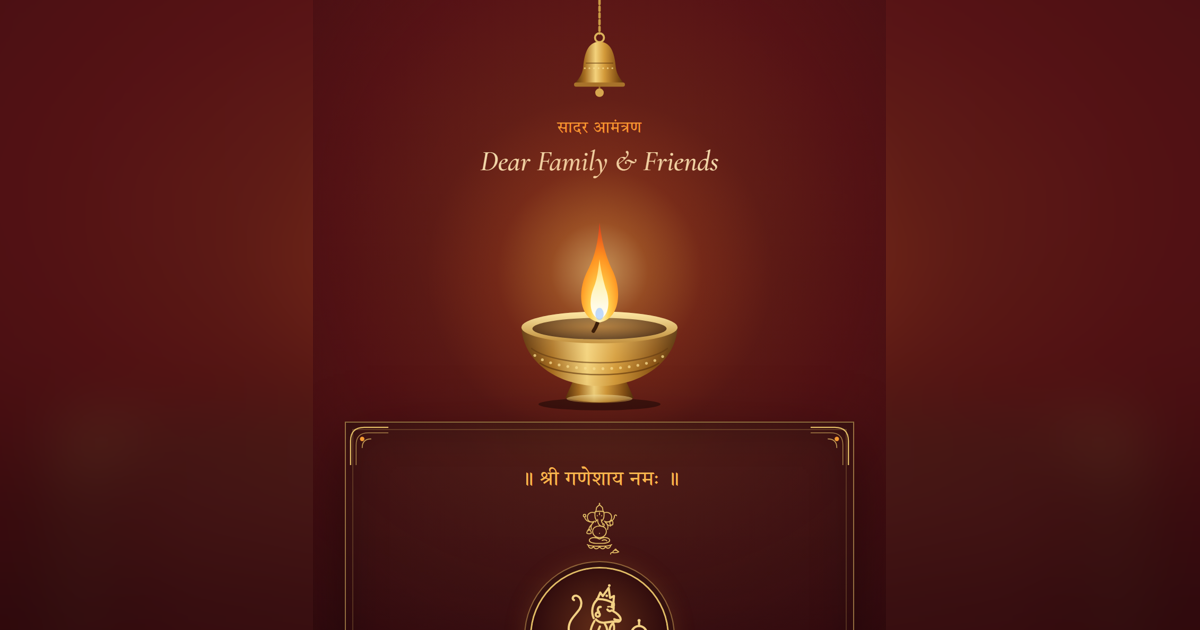
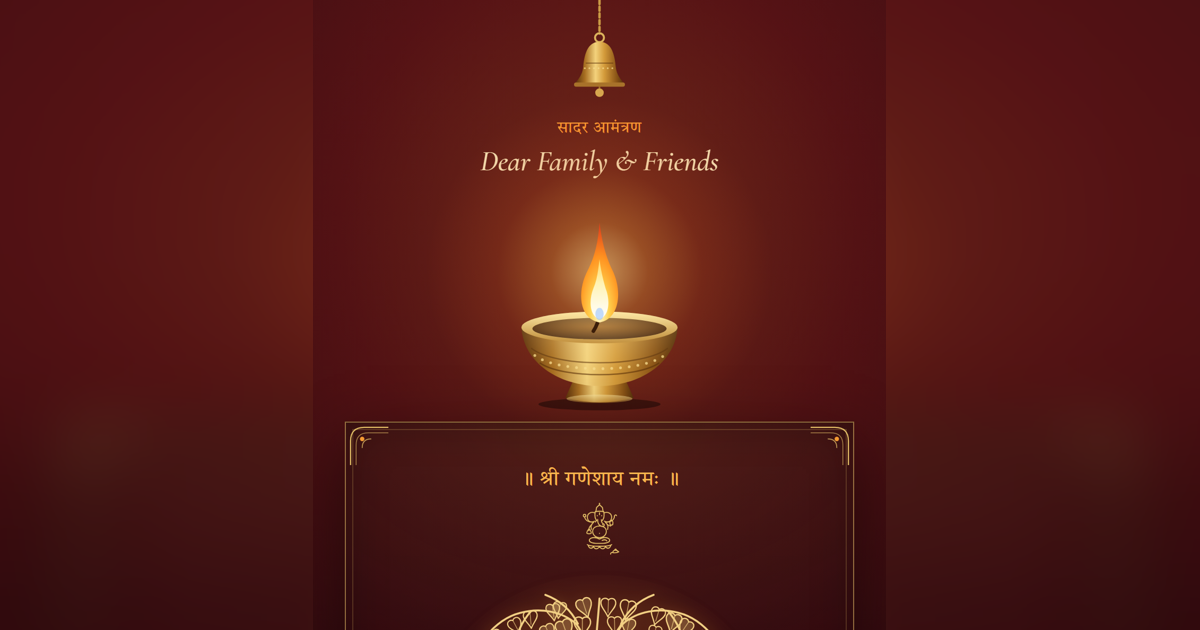
New Hanuman ji art on Diya card

Changed region(s): [[0.4008, 0.8746, 0.6167, 1.0]]

diff --git a/variants/diya.js b/variants/diya.js
@@ -99,14 +99,93 @@
     </g>`;
   }
 
-  // Hanuman ji's doodle (from core's shared art) inside a gold halo, flanked by fading rules and dots.
+  // Hanuman ji seated in dhyana under a peepal tree (after the devotional painting): gold line art, stroke =
+  // currentColor. Heart-shaped peepal leaves hang in a dome (seeded, so every render is the same), a dotted
+  // prabhamandal behind the mukut, hands folded in the lap, tail rising at his right, gada resting at his left.
+  function hanumanSVG() {
+    const LEAF = 'M0 1.2 C-1.5 -.6 -5 -.4 -5.4 3 C-5.8 6.4 -2 9 0 13.5 C2 9 5.8 6.4 5.4 3 C5 -.4 1.5 -.6 0 1.2Z';
+    let seed = 11;
+    const rnd = (a, b) => { seed = (seed * 9301 + 49297) % 233280; return a + (b - a) * seed / 233280; };
+    const leaves = [];
+    [[44, 10], [55, 13], [66, 15], [77, 18], [88, 20]].forEach(([r, n]) => {
+      for (let i = 0; i < n; i++) {
+        const a = Math.PI * (1.08 + .84 * (i + rnd(.15, .85)) / n);
+        const x = 100 + Math.cos(a) * r * 1.05, y = 98 + Math.sin(a) * r * .9;
+        if (Math.hypot(x - 100, (y - 70) * 1.15) < 33 || (y > 60 && Math.abs(x - 100) < 44) || y < 5) continue;
+        const rot = (x - 100) * .35 + rnd(-18, 18), s = rnd(.62, .9);
+        const fill = rnd(0, 1) < .35;
+        leaves.push(`<g transform="translate(${x.toFixed(1)} ${y.toFixed(1)}) rotate(${rot.toFixed(0)}) scale(${s.toFixed(2)})">` +
+          `<path d="${LEAF}"${fill ? ' fill="currentColor" fill-opacity=".22"' : ''}/><path d="M0 1.5 V10.5" stroke-width=".6" opacity=".7"/></g>`);
+      }
+    });
+    const ground = [[34, 171, 80], [52, 174, -60], [150, 172, 100], [166, 170, -30], [124, 175, 70], [72, 176, -100]]
+      .map(([x, y, r]) => `<g transform="translate(${x} ${y}) rotate(${r}) scale(.7)"><path d="${LEAF}"/></g>`).join('');
+    return `<svg class="diya-hmn-svg" viewBox="0 0 200 182" fill="none" stroke="currentColor" stroke-width="1.3" stroke-linecap="round" stroke-linejoin="round" role="img" aria-label="Shri Hanuman" focusable="false">
+    <defs><radialGradient id="diyaHmnGlow" cx=".5" cy=".46" r=".5"><stop offset="0" stop-color="#ffd27a" stop-opacity=".38"/><stop offset=".55" stop-color="#f59a32" stop-opacity=".12"/><stop offset="1" stop-color="#f59a32" stop-opacity="0"/></radialGradient></defs>
+    <ellipse cx="100" cy="92" rx="96" ry="86" fill="url(#diyaHmnGlow)" stroke="none"/>
+    <g class="diya-hmn-tree" stroke-width="1.1">
+      <path d="M93.6 52 C93 44 91 38 87 33 M106.4 52 C107 44 109 38 113 33"/>
+      <path d="M87 33 C79 26 67 24 56 27 C48 29 42 34 37 40 M113 33 C121 26 133 24 144 27 C152 29 158 34 163 40"/>
+      <path d="M88 33 C84 25 78 20 70 17 M112 33 C116 25 122 20 130 17"/>
+      <path d="M62 26 C57 32 54 38 53 46 M138 26 C143 32 146 38 147 46"/>
+      <path d="M98.4 38 C99 31 99.6 25 100 19"/>
+    </g>
+    <g class="diya-hmn-leaves" stroke-width=".9">${leaves.join('')}</g>
+    <circle cx="100" cy="74" r="21" stroke-width=".9" stroke-dasharray="0 3.4" opacity=".8"/>
+    <g class="diya-hmn-figure">
+      <path d="M100 44.5 L103.4 52 L101.6 52 L104.6 58.6 L102.6 58.6 L109.6 66.4 H90.4 L97.4 58.6 L95.4 58.6 L98.4 52 L96.6 52 Z" fill="currentColor" fill-opacity=".18"/>
+      <circle cx="100" cy="42.6" r="1.4" fill="currentColor" stroke="none"/>
+      <path d="M89.6 66.4 H110.4" stroke-width="1.6"/>
+      <circle cx="100" cy="62.4" r="1.2" fill="currentColor" stroke="none"/>
+      <path d="M90.4 67.6 C88.4 72 88.6 78 90.4 82 C92.4 87 96 90.6 100 90.6 C104 90.6 107.6 87 109.6 82 C111.4 78 111.6 72 109.6 67.6"/>
+      <path d="M89 72.4 C86.2 71.4 85.2 75.6 88.6 77.4 M111 72.4 C113.8 71.4 114.8 75.6 111.4 77.4"/>
+      <circle cx="87.6" cy="81" r="1.8"/><circle cx="112.4" cy="81" r="1.8"/>
+      <path d="M93 74.2 C94.4 75.6 96.2 75.6 97.4 74.2 M102.6 74.2 C103.8 75.6 105.6 75.6 107 74.2"/>
+      <path d="M92.6 71.4 C94.2 70.4 96.2 70.4 97.6 71.2 M102.4 71.2 C103.8 70.4 105.8 70.4 107.4 71.4" stroke-width=".9"/>
+      <path d="M98.6 68 C98.6 71 101.4 71 101.4 68"/><path d="M100 68.6 V71.2" stroke-width="1"/>
+      <path d="M98.6 77.6 C99.4 78.4 100.6 78.4 101.4 77.6" stroke-width="1"/>
+      <path d="M95.6 81.2 C98 82.4 102 82.4 104.4 81.2" stroke-width="1.1"/>
+      <path d="M97.6 85.4 C99.2 86.2 100.8 86.2 102.4 85.4" stroke-width="1"/>
+      <path d="M89.6 70 C86 76 85 86 84 94 M110.4 70 C114 76 115 86 116 94" stroke-width="1" opacity=".75"/>
+      <path d="M95.6 90 V94.6 M104.4 90 V94.6"/>
+      <path d="M95.6 94 C88 95 80 96.4 76 101 C71.6 106 69.6 116 70 124 C70.6 131 80 136.4 91 138"/>
+      <path d="M104.4 94 C112 95 120 96.4 124 101 C128.4 106 130.4 116 130 124 C129.4 131 120 136.4 109 138"/>
+      <path d="M77 101.6 C80.4 103 82.4 105.6 83 109 M123 101.6 C119.6 103 117.6 105.6 117 109" opacity=".7" stroke-width="1"/>
+      <path d="M82 108 C80.6 114 79.6 120 80.6 126 C83.6 129.6 87.6 131 91.4 131.4"/>
+      <path d="M118 108 C119.4 114 120.4 120 119.4 126 C116.4 129.6 112.4 131 108.6 131.4"/>
+      <path d="M70.4 112.6 C73.6 114.6 77.6 114.6 81 112.6 M129.6 112.6 C126.4 114.6 122.4 114.6 119 112.6" stroke-width="1.6"/>
+      <path d="M89 97 C92 105 108 105 111 97"/>
+      <circle cx="100" cy="106.4" r="1.9" fill="currentColor" fill-opacity=".3"/>
+      <path d="M85 99 C86 116 114 116 115 99" stroke-dasharray="0 2.6" stroke-width="1.4"/>
+      <path d="M86 110 C91 113.6 96 113.6 100 111 C104 113.6 109 113.6 114 110" opacity=".8"/>
+      <path d="M100 115 V126" opacity=".55" stroke-width="1"/>
+      <circle cx="100" cy="128.6" r=".8" fill="currentColor" stroke="none"/>
+      <path d="M88 131.6 C86.6 134 86.6 136 88 138 M112 131.6 C113.4 134 113.4 136 112 138" stroke-width="1.6"/>
+      <path d="M90.6 134.6 C94 131.6 106 131.6 109.4 134.6 C108.4 140 91.6 140 90.6 134.6Z" fill="currentColor" fill-opacity=".12"/>
+      <path d="M98 133 C99 131.6 101 131.6 102 133" />
+      <path d="M86 137 C74 140 63 147 58 154 C55 160 60 164.6 70 164.4 H130 C140 164.6 145 160 142 154 C137 147 126 140 114 137"/>
+      <path d="M63 158.4 C80 152 100 148 121 147"/>
+      <path d="M137 158.4 C122 154 108 152.4 92 152"/>
+      <path d="M121 147 C126 143.6 132.6 145 133.6 149.4 C130 151 125 150.6 121 147Z"/>
+      <path d="M92 152 C86 150 80 151.6 79 155.6 C83 157 88.6 156 92 152Z"/>
+      <path d="M100 140 C98 146 98.6 152 100 158 M95 141 C92 147 92 152 93 157 M105 141 C108 147 108 152 107 157" opacity=".5" stroke-width="1"/>
+    </g>
+    <g class="diya-hmn-gada">
+      <path d="M150.6 166.4 L156 134" stroke-width="2.6"/>
+      <path d="M154.4 138 L159.8 139" stroke-width="1.3"/>
+      <circle cx="157.6" cy="126.4" r="7.6" fill="currentColor" fill-opacity=".14"/>
+      <path d="M150.6 124.4 C155 126.8 160 127.6 164.4 127" opacity=".6" stroke-width="1"/>
+      <path d="M151 129.4 C155 131.6 159.6 132 163.8 131" opacity=".6" stroke-width="1"/>
+      <path d="M159 119 L159.8 115.6"/><circle cx="160" cy="114" r="1.3" fill="currentColor" stroke="none"/>
+    </g>
+    <path class="diya-hmn-tail" d="M62 156 C50 152 44 140 48 128 C51 119 50 110 44 106 C40 103.6 36 106 37.6 110" stroke-width="1.8"/>
+    <path d="M22 168.6 C60 166.4 140 166.4 178 168.6" stroke-width="1"/>
+    <g stroke-width=".8" opacity=".75">${ground}</g>
+  </svg>`;
+  }
+
   function hanumanMotif() {
-    const art = (Invite.art && Invite.art.hanuman) ? Invite.art.hanuman({ size: 104, className: 'diya-hmn-art' }) : '';
-    return `<div class="diya-hmn" role="img" aria-label="Hanuman ji">
-      <span class="diya-hmn-line diya-hmn-l" aria-hidden="true"></span><i class="diya-hmn-dot" aria-hidden="true"></i>
-      <span class="diya-hmn-halo">${art}</span>
-      <i class="diya-hmn-dot" aria-hidden="true"></i><span class="diya-hmn-line diya-hmn-r" aria-hidden="true"></span>
-    </div>`;
+    return `<div class="diya-hmn">${hanumanSVG()}</div>`;
   }
 
   function motifSVG(isSK) {

diff --git a/variants/diya.css b/variants/diya.css
@@ -236,19 +236,10 @@ html.img .diya-skip, html.img .diya-hint { display: none; }
 /* Ganesh ji doodle under "Shri Ganeshay Namah" */
 .diya-ganesh-art { display: flex; justify-content: center; margin: 6px 0 0; color: var(--diya-gold); }
 .diya-ganesh-art svg { display: block; width: 46px; height: auto; max-width: 100%; }
-/* Hanuman ji doodle in a gold halo (Sunderkand) */
-.diya-hmn { display: flex; align-items: center; justify-content: center; gap: 8px; }
-.diya-hmn-line { flex: 1; height: 1.2px; max-width: 86px; }
-.diya-hmn-l { background: linear-gradient(90deg, transparent, var(--diya-gold)); }
-.diya-hmn-r { background: linear-gradient(90deg, var(--diya-gold), transparent); }
-.diya-hmn-dot { width: 4px; height: 4px; border-radius: 50%; background: var(--diya-gold); flex: none; }
-.diya-hmn-halo {
-  position: relative; flex: none; width: 128px; height: 128px; border-radius: 50%;
-  display: grid; place-items: center; color: var(--diya-gold-hi);
-  background: radial-gradient(circle at 50% 45%, rgba(245, 154, 50, .22), rgba(42, 8, 11, .9) 70%);
-  box-shadow: 0 0 0 1.5px var(--diya-gold), 0 0 0 6px rgba(42, 8, 11, .9), 0 0 0 7px rgba(226, 189, 102, .45), 0 0 26px rgba(245, 154, 50, .25);
-}
-.diya-hmn-halo svg { display: block; width: 104px; height: auto; max-width: 100%; }
+/* Hanuman ji in dhyana under the peepal tree (Sunderkand) */
+.diya-motif:has(.diya-hmn) { width: min(340px, 100%); margin-top: 8px; }
+.diya-hmn { color: var(--diya-gold-hi); }
+.diya-hmn-svg { display: block; width: 100%; height: auto; filter: drop-shadow(0 0 6px rgba(245, 154, 50, .25)); }
 .diya-verse {
   margin: 8px 0 0; font: 400 clamp(15px, 4.6vw, 19px)/1.85 'Tiro Devanagari Hindi', serif; color: var(--diya-cream);
 }
